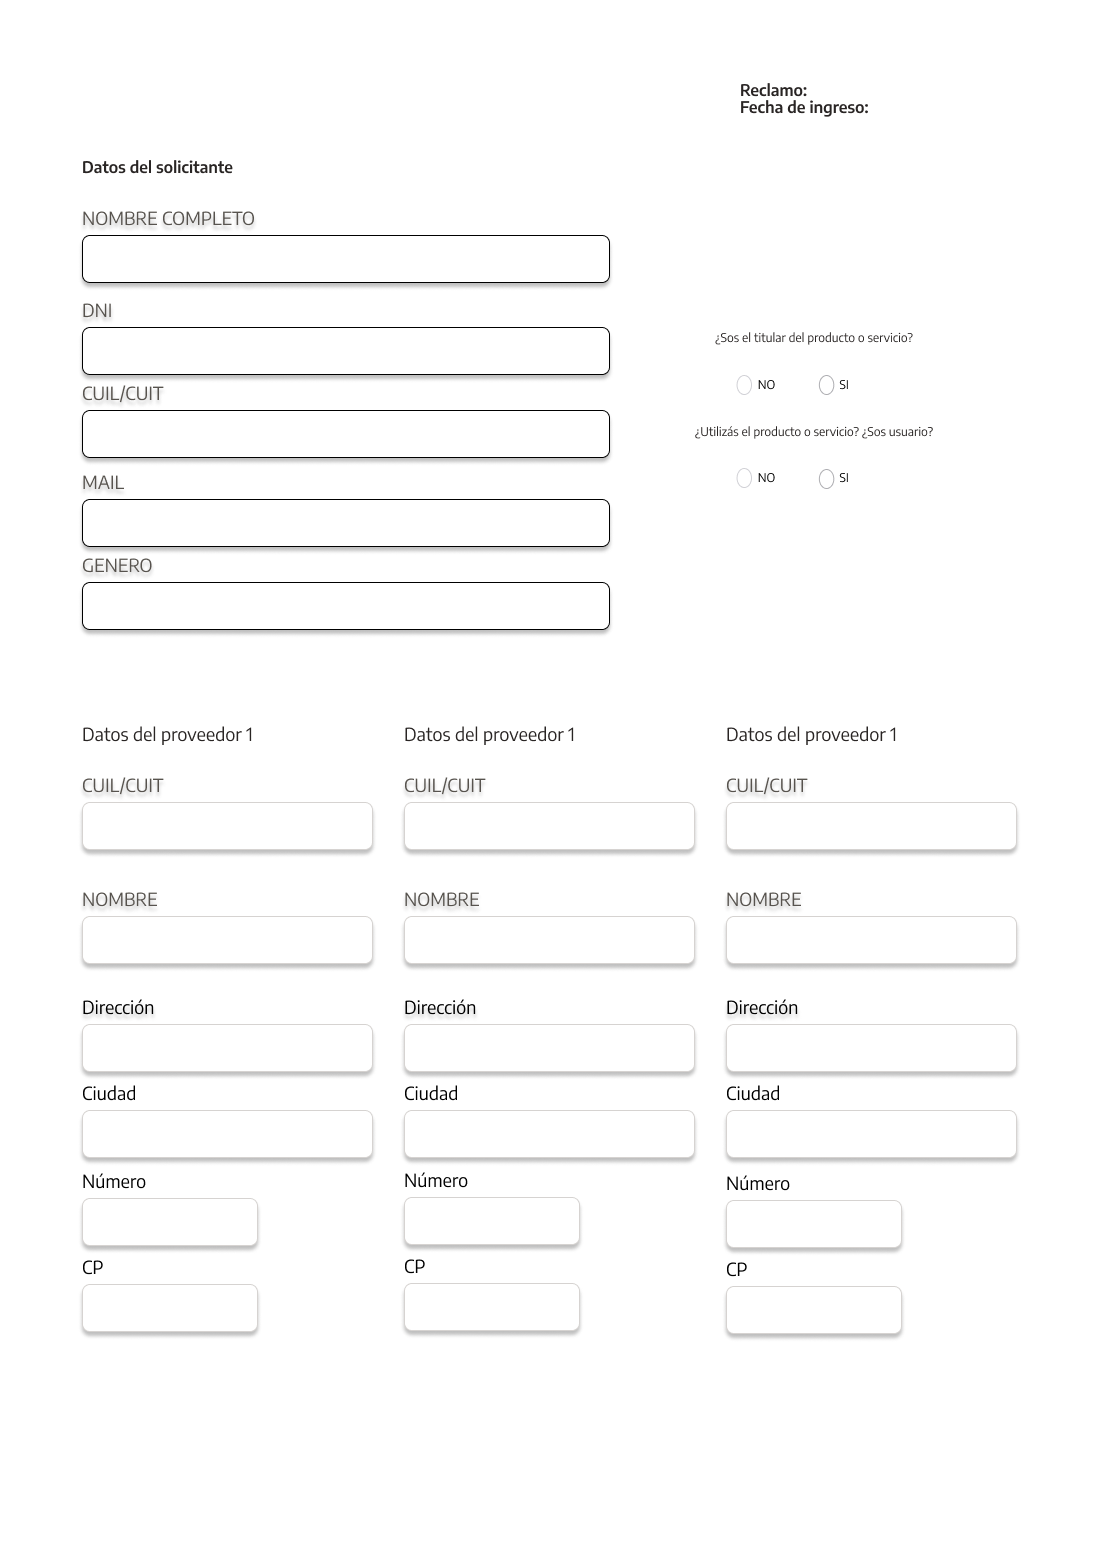
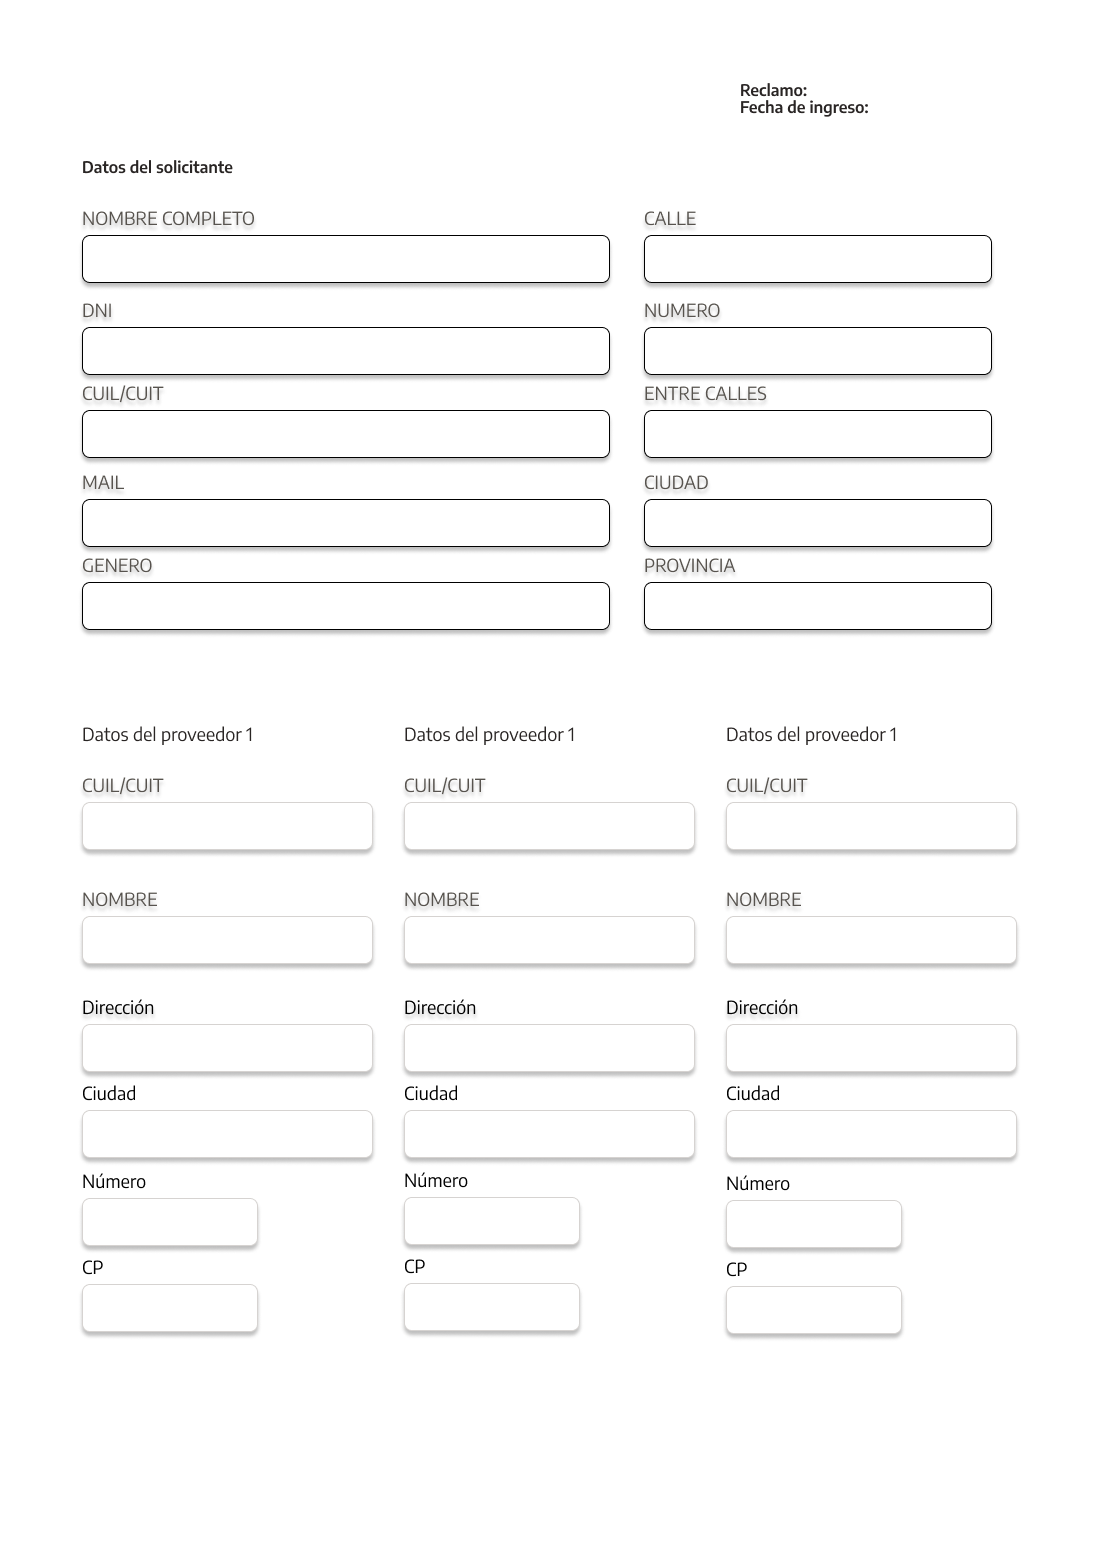
Se agregan los campos domicilio del claimer a la impresion del reclamo

Changed region(s): [[0.5846, 0.1228, 0.8923, 0.3685], [0.5846, 0.3992, 0.8923, 0.4299]]

diff --git a/claims/api/v1/views.py b/claims/api/v1/views.py
@@ -12,6 +12,7 @@ from django.http import HttpResponseBadRequest,HttpResponse, JsonResponse
 from django.views.decorators.csrf import csrf_exempt
 from administration.models import Omic, TrafficLightSystemTimes
 from claims.models import ClaimIVE, ClaimRegular, Claimer, File, Supplier
+from tickets.models import Ticket
 from common.communication.utils import send_email
 from common.models import BaseModel
 from common.views import BaseView
@@ -158,10 +159,11 @@ class ClaimView(BaseView):
         'monetary_agreement':str
     }
 
-    list_page_size = "all"
+    list_page_size = 10
 
     list_search_fields=["derived_to_user__uuid"]
-    
+    list_order_by = ["-id"]
+
     @csrf_exempt
     def dispatch(self, request, *args, **kwargs):
         if 'uuid' in kwargs:
@@ -181,6 +183,13 @@ class ClaimView(BaseView):
         highlighted_comments.sort(key=lambda x: x["timestamp"], reverse=True)
         data["featured_comments"] = highlighted_comments[:3]
 
+        #Obtengo el nombre del usuario asignado
+        if data["derived_to_user"]:
+            account = Account.objects.filter(uuid=data["derived_to_user"]).first()
+            data["assigned"] = account.full_name if account else "S/A"
+        else:
+            data["assigned"] = f"{data['derived_to_omic']['name']} - {data['derived_to_omic']['responsible']}" if data["derived_to_omic"] else "S/A"
+        
         #Ordeno las actividades en base a las mas nuevas primero
         data["activity"].sort(key=lambda x: x["id"], reverse=True)
 
@@ -217,6 +226,7 @@ class ClaimView(BaseView):
         modified_at_local = localtime(data['created_at'])
         custom_format = "dd/MM/yyyy 'a las' HH.mm'hs'"
         data['created_at'] = format_datetime(modified_at_local, format=custom_format, locale=locale)
+        data['has_ticket'] = Ticket.objects.filter(claim=data['id']).exclude(status="closed").exists()
 
         return data
 
@@ -233,6 +243,7 @@ class ClaimView(BaseView):
                 claim_data["assigned"] = account.full_name if account else "S/A"
             else:
                 claim_data["assigned"] = f"{claim['derived_to_omic']['name']} - {claim['derived_to_omic']['responsible']}" if claim["derived_to_omic"] else "S/A"
+            print(claim_data["assigned"])            
             claim_data["status"] = claim["claim_status"]
 
             #Logica para tipo de reclamo y estado de reclamo
@@ -485,7 +496,7 @@ class GenerateClaimPdf(BaseView):
 
     list_fields_related = {
         "suppliers":["fullname","cuil","address","num_address","city","zip_code"],
-        "claimer":["fullname","dni","cuit","email","gender"],
+        "claimer":["fullname","dni","cuit","email","gender","street","number","between_streets","province","city"],
         "files":["uuid","file","file_name"]
     }
     @csrf_exempt
@@ -537,6 +548,14 @@ class GenerateClaimPdf(BaseView):
             "none": "Prefiero no decirlo",
         }
         draw_input_label(45, y_position - 243, GENDER_CHOICES.get(claim["claimer"]["gender"]),10)
+
+        y_position = 763
+        #Datos de domicilio
+        draw_input_label(350, y_position - 58, claim["claimer"]["street"],10)
+        draw_input_label(350, y_position - 106, claim["claimer"]["between_streets"],10)
+        draw_input_label(350, y_position - 151, claim["claimer"]["number"],10)
+        draw_input_label(350, y_position - 198, claim["claimer"]["province"],10)
+        draw_input_label(350, y_position - 243, claim["claimer"]["city"],10)
 
         # Datos del proveedor
         y_position -= 343

diff --git a/common/views.py b/common/views.py
@@ -779,8 +779,6 @@ class BaseView(View):
             return HttpResponse(status=404)
         # Get cleaned body
         [cleaned_body, bad_response] = self.get_cleaned_body(request, **kwargs)
-        print(cleaned_body)
-        print(bad_response)
         if bad_response: return bad_response
         # Connect the Signal to check the obj
         pre_save.connect(clean_before_save, sender=self.model)
